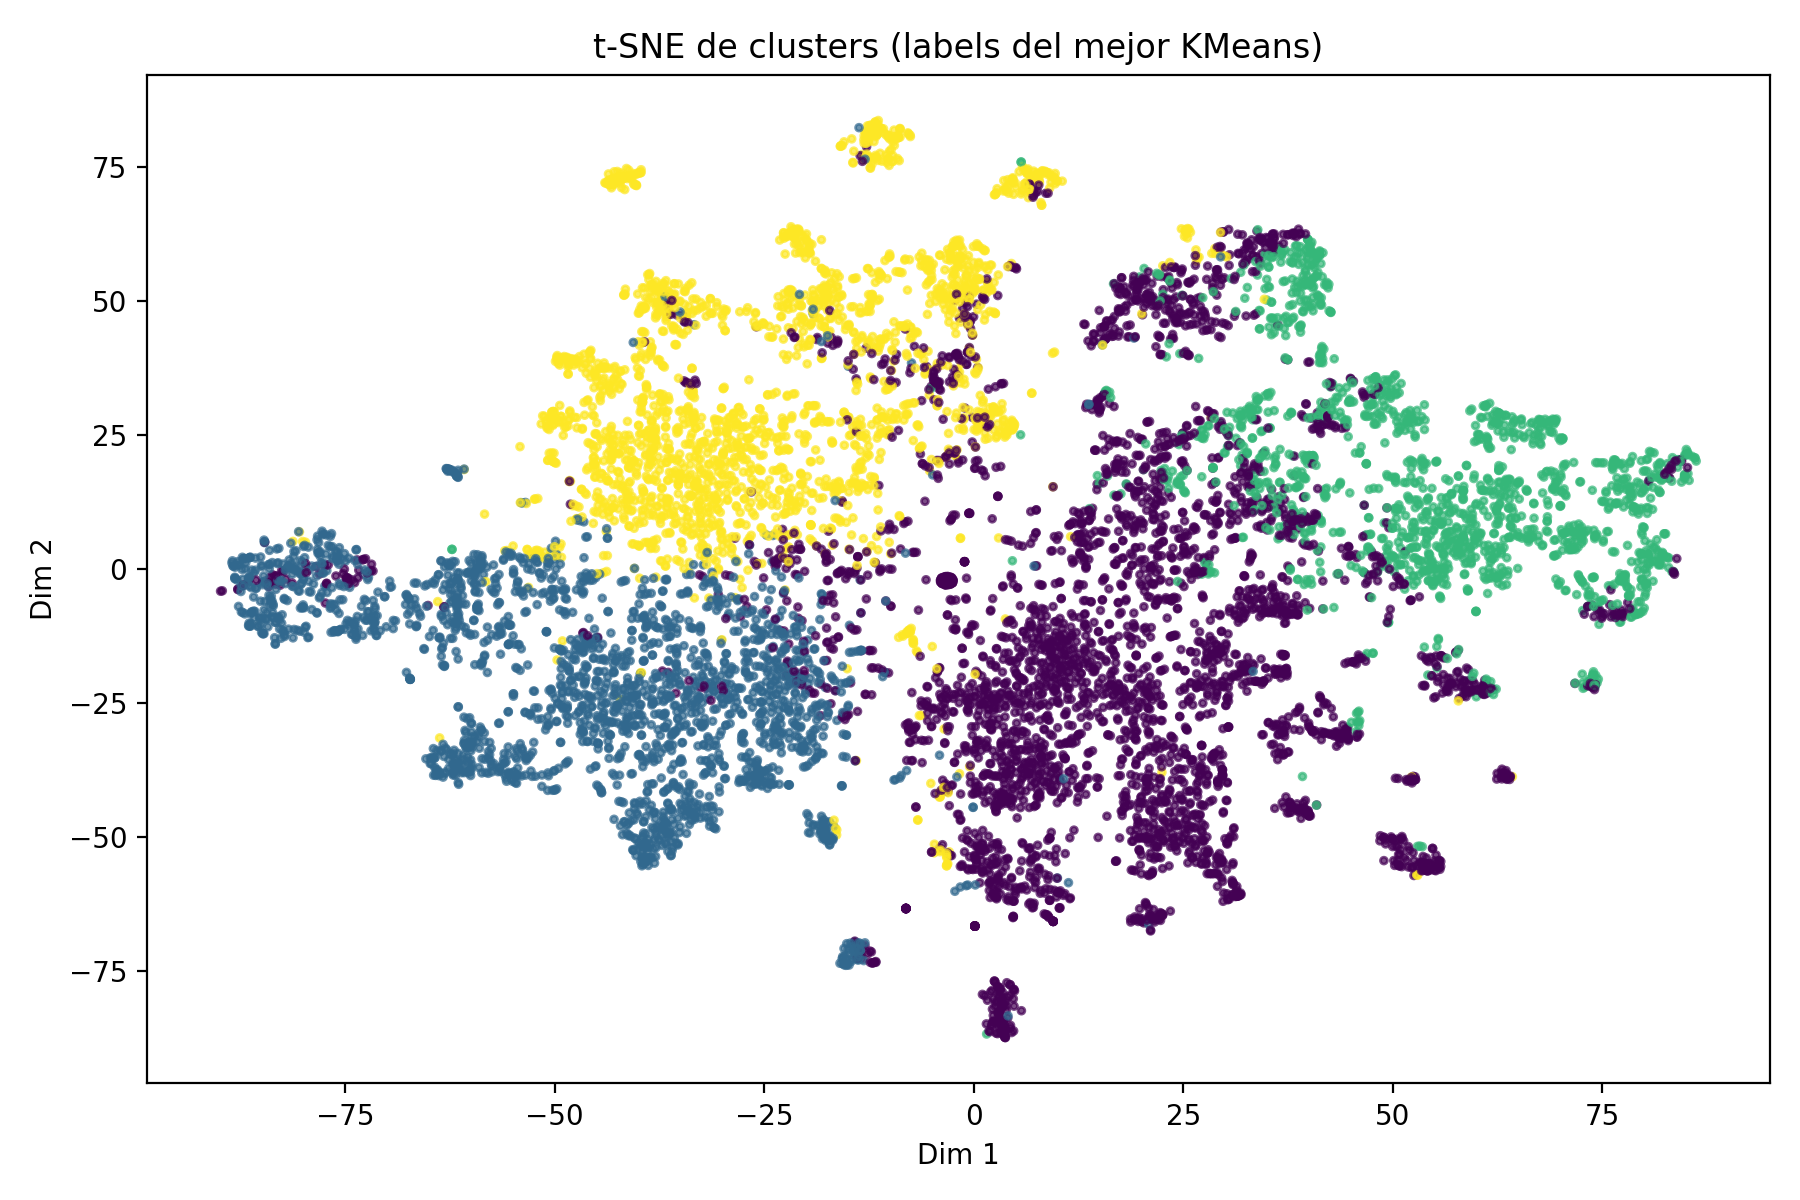
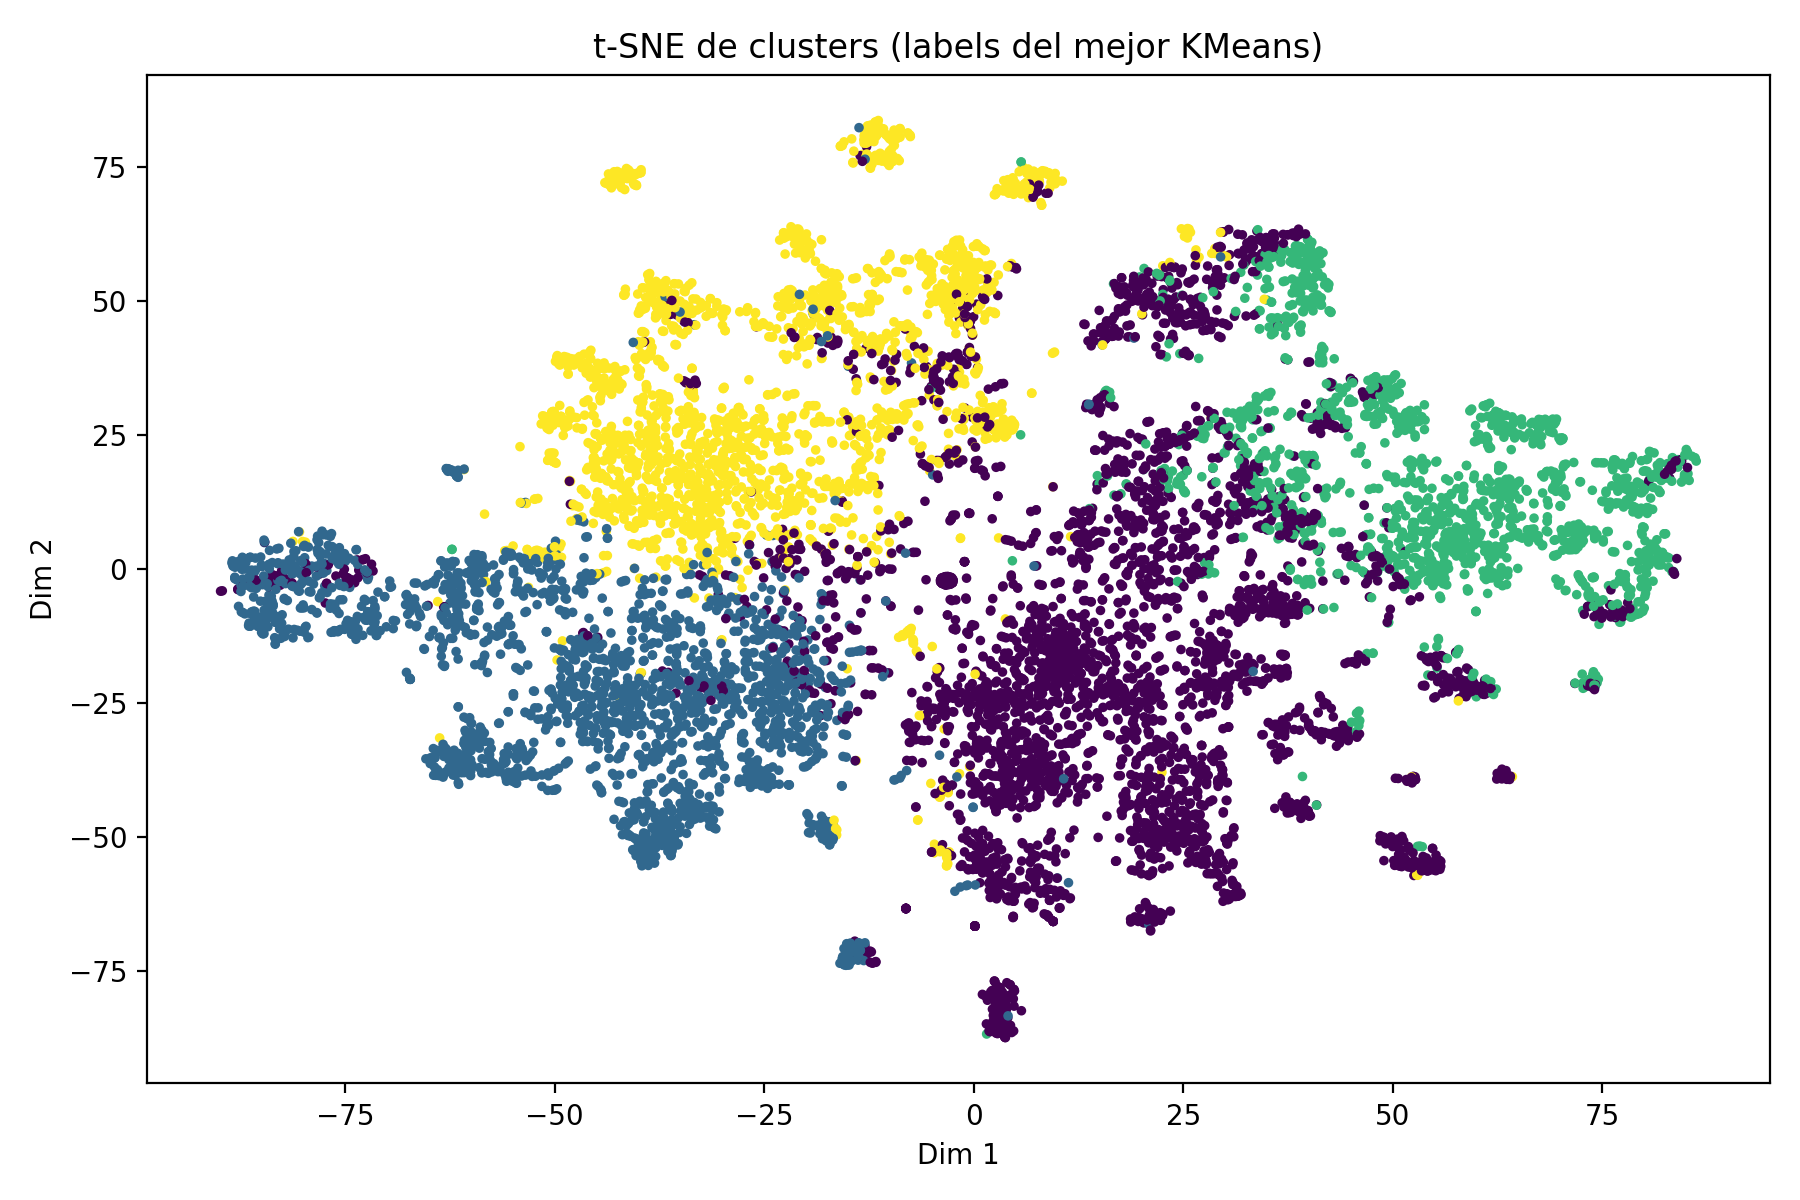
Actualizacion script fino filipino

diff --git a/practica2.py b/practica2.py
@@ -1,6 +1,5 @@
 import time
 import tracemalloc
-
 import matplotlib.pyplot as plt
 import numpy as np
 import pandas as pd
@@ -8,15 +7,13 @@ from sklearn.cluster import KMeans
 from sklearn.decomposition import TruncatedSVD
 from sklearn.feature_extraction.text import CountVectorizer, TfidfVectorizer
 from sklearn.manifold import TSNE
-from sklearn.metrics import (
-    accuracy_score,
-    adjusted_rand_score,
-    calinski_harabasz_score,
-    davies_bouldin_score,
-    f1_score,
-    normalized_mutual_info_score,
-    silhouette_score,
-)
+from sklearn.metrics import accuracy_score
+from sklearn.metrics import adjusted_rand_score
+from sklearn.metrics import calinski_harabasz_score
+from sklearn.metrics import davies_bouldin_score
+from sklearn.metrics import f1_score
+from sklearn.metrics import normalized_mutual_info_score
+from sklearn.metrics import silhouette_score
 from sklearn.mixture import GaussianMixture
 from sklearn.model_selection import StratifiedKFold
 from sklearn.naive_bayes import GaussianNB, MultinomialNB
@@ -25,7 +22,6 @@ from sklearn.preprocessing import LabelEncoder
 
 
 SEEDS = [0, 10, 42, 100]
-K_CLUSTERS = 4
 
 
 def medir_memoria_y_tiempo(func, *args, **kwargs):
@@ -107,7 +103,7 @@ def ejecutar_agrupamiento(df, representaciones, y_encoded):
     for rep_nombre, X in representaciones.items():
         print(f"\n[{rep_nombre}]")
         for seed in SEEDS:
-            kmeans = KMeans(n_clusters=K_CLUSTERS, random_state=seed, n_init=10)
+            kmeans = KMeans(n_clusters=4, random_state=seed, n_init=10)
             labels, duracion, memoria = medir_memoria_y_tiempo(kmeans.fit_predict, X)
             metricas = evaluar_clustering(X, labels, y_encoded)
 
@@ -131,7 +127,7 @@ def ejecutar_agrupamiento(df, representaciones, y_encoded):
     svd = TruncatedSVD(n_components=100, random_state=42)
     X_tfidf_red = svd.fit_transform(X_tfidf)
     for seed in SEEDS:
-        gmm = GaussianMixture(n_components=K_CLUSTERS, random_state=seed)
+        gmm = GaussianMixture(n_components=4, random_state=seed)
         labels_gmm, duracion, memoria = medir_memoria_y_tiempo(gmm.fit_predict, X_tfidf_red)
         metricas = {
             "silhouette": silhouette_score(X_tfidf_red, labels_gmm, sample_size=2000, random_state=42),
@@ -166,7 +162,7 @@ def ejecutar_agrupamiento(df, representaciones, y_encoded):
     )
 
     kmeans_best = KMeans(
-        n_clusters=K_CLUSTERS,
+        n_clusters=4,
         random_state=int(mejor["seed"]),
         n_init=10,
     )
@@ -186,7 +182,7 @@ def ejecutar_agrupamiento(df, representaciones, y_encoded):
     X_2d = tsne.fit_transform(X_tsne_red)
 
     plt.figure(figsize=(9, 6))
-    plt.scatter(X_2d[:, 0], X_2d[:, 1], c=labels_best, s=6, alpha=0.7)
+    plt.scatter(X_2d[:, 0], X_2d[:, 1], c=labels_best, s=6)
     plt.title("t-SNE de clusters (labels del mejor KMeans)")
     plt.xlabel("Dim 1")
     plt.ylabel("Dim 2")
@@ -338,48 +334,12 @@ def ejecutar_clasificacion(representaciones, y_encoded):
     return df_clf
 
 
-def imprimir_conclusiones(df_clustering, df_clasificacion):
-    print("\n=== Conclusiones automaticas ===")
-
-    best_kmeans = (
-        df_clustering[df_clustering["algoritmo"] == "KMeans"]
-        .sort_values(by=["ari", "nmi", "silhouette"], ascending=False)
-        .iloc[0]
-    )
-    best_em = (
-        df_clustering[df_clustering["algoritmo"] == "GaussianMixture"]
-        .sort_values(by=["ari", "nmi"], ascending=False)
-        .iloc[0]
-    )
-    print(
-        f"KMeans mejor -> {best_kmeans['representacion']} seed={int(best_kmeans['seed'])} "
-        f"ARI={best_kmeans['ari']:.4f} NMI={best_kmeans['nmi']:.4f}"
-    )
-    print(
-        f"EM(TF-IDF) mejor -> seed={int(best_em['seed'])} "
-        f"ARI={best_em['ari']:.4f} NMI={best_em['nmi']:.4f}"
-    )
-
-    top3 = df_clasificacion.sort_values(
-        by=["accuracy_mean", "f1_macro_mean", "tiempo_total_s"],
-        ascending=[False, False, True],
-    ).head(3)
-    print("\nTop 3 clasificacion (accuracy/f1/tiempo):")
-    for _, fila in top3.iterrows():
-        print(
-            f"- {fila['algoritmo']} | {fila['representacion']} | {fila['params']} | "
-            f"acc={fila['accuracy_mean']:.4f} f1={fila['f1_macro_mean']:.4f} "
-            f"tiempo={fila['tiempo_total_s']:.2f}s"
-        )
-
 
 def main():
     df, X_text, _, y_encoded = cargar_datos("news_reducido.csv")
     representaciones = construir_representaciones(X_text)
     df_cluster = ejecutar_agrupamiento(df, representaciones, y_encoded)
     df_clf = ejecutar_clasificacion(representaciones, y_encoded)
-    imprimir_conclusiones(df_cluster, df_clf)
-
 
 if __name__ == "__main__":
     main()
